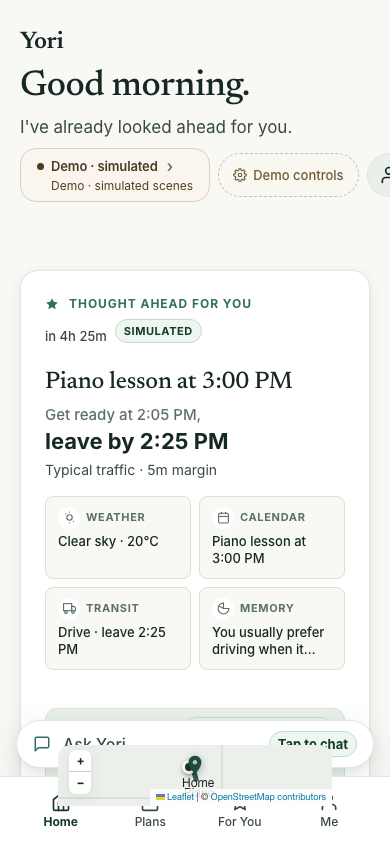
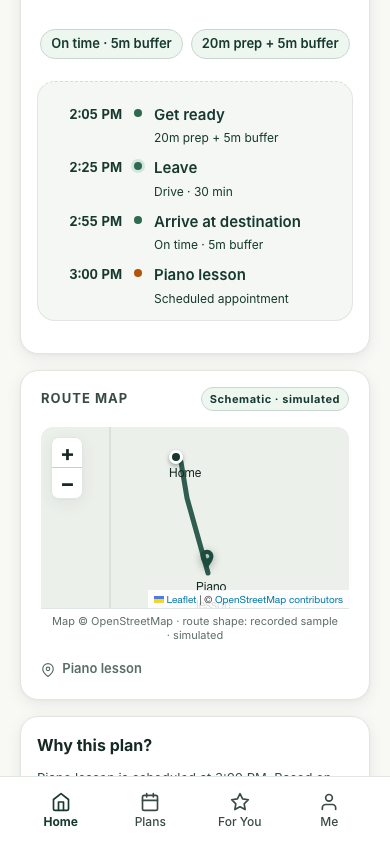
fix(ui): apply reviewer bridge placement constraint and OSM policy assertions (INBOX-20261101-12065C)

diff --git a/tests/e2e/real-map.spec.ts b/tests/e2e/real-map.spec.ts
@@ -120,12 +120,15 @@ async function checkNoOverflow(page: Page): Promise<void> {
 
 test.describe('REAL-MAP: Leaflet + OpenStreetMap Interactive Map (INBOX-20261101-12065C)', () => {
   let externalRequests: string[] = [];
+  let osmTileRequests: string[] = [];
 
   test.beforeEach(async ({ page }) => {
     externalRequests = [];
+    osmTileRequests = [];
 
     // Intercept OpenStreetMap tile requests and fulfill deterministically with mock raster PNG
     await page.route('**/tile.openstreetmap.org/**', route => {
+      osmTileRequests.push(route.request().url());
       route.fulfill({
         status: 200,
         contentType: 'image/png',
@@ -146,78 +149,77 @@ test.describe('REAL-MAP: Leaflet + OpenStreetMap Interactive Map (INBOX-20261101
     });
   });
 
-  test('Desktop Viewport (1280x800): renders real map tiles, polyline, markers, attribution, and non-hijacked wheel zoom', async ({
+  test('Desktop Viewport (1280x800): renders real map in Trip Details panel with polyline, markers, attribution, and non-hijacked wheel zoom', async ({
     page,
   }) => {
     await page.setViewportSize({ width: 1280, height: 800 });
     await page.goto('/?ui=v2&dev=1');
     await page.waitForSelector('.app-layout[data-ui-version="v2"]');
 
-    // Wait for real map container to signal ready
-    const centerMap = page.locator('.now-map-strip .real-map-container').first();
-    await expect(centerMap).toBeVisible();
-    await expect(centerMap).toHaveAttribute('data-map-status', 'ready', { timeout: 10000 });
+    // On initial Home, the center Now card retains the compact <=140px schematic strip
+    const homeStrip = page.locator('.now-map-strip .compact-map-strip');
+    await expect(homeStrip).toBeVisible();
+    const box = await homeStrip.boundingBox();
+    expect(box?.height ?? 0).toBeLessThanOrEqual(140);
+
+    // The rich interactive Leaflet map renders in the desktop right-panel Trip Details
+    const rightPanelMap = page.locator('#desktop-right-panel .real-map-container').first();
+    await expect(rightPanelMap).toBeVisible();
+    await expect(rightPanelMap).toHaveAttribute('data-map-status', 'ready', { timeout: 10000 });
 
     // 1. Verify OSM raster tiles rendered inside leaflet-tile-pane
-    const tileImages = centerMap.locator('.leaflet-tile-pane img');
+    const tileImages = rightPanelMap.locator('.leaflet-tile-pane img');
     await expect(tileImages.first()).toBeVisible();
 
     // 2. Verify OpenStreetMap attribution control
-    const attribution = centerMap.locator('.leaflet-control-attribution');
+    const attribution = rightPanelMap.locator('.leaflet-control-attribution');
     await expect(attribution).toBeVisible();
     await expect(attribution).toContainText('OpenStreetMap contributors');
 
     // 3. Verify visible disclosure caption
-    const caption = centerMap.locator('.real-map-caption');
+    const caption = rightPanelMap.locator('.real-map-caption');
     await expect(caption).toBeVisible();
     await expect(caption).toContainText('Map © OpenStreetMap · route shape: recorded sample · simulated');
 
     // 4. Verify route polyline
-    const polyline = centerMap.locator('path.v2-map-route');
+    const polyline = rightPanelMap.locator('path.v2-map-route');
     await expect(polyline).toBeVisible();
 
     // 5. Verify markers: Origin (Home) and Destination
-    const originMarker = centerMap.locator('.leaflet-marker-pane .v2-map-marker.origin');
+    const originMarker = rightPanelMap.locator('.leaflet-marker-pane .v2-map-marker.origin');
     await expect(originMarker).toBeVisible();
-    const destMarker = centerMap.locator('.leaflet-marker-pane .v2-map-marker.destination');
+    const destMarker = rightPanelMap.locator('.leaflet-marker-pane .v2-map-marker.destination');
     await expect(destMarker).toBeVisible();
 
-    // 6. Verify Desktop Right Panel also renders shared real map component
-    const rightPanelMap = page.locator('#desktop-right-panel .real-map-container').first();
-    await expect(rightPanelMap).toBeVisible();
-    await expect(rightPanelMap).toHaveAttribute('data-map-status', 'ready', { timeout: 10000 });
-    await expect(rightPanelMap.locator('.leaflet-tile-pane img').first()).toBeVisible();
-    await expect(rightPanelMap.locator('path.v2-map-route')).toBeVisible();
-
-    // 7. Verify Non-hijacking Wheel Zoom:
-    // scrollWheelZoom should be disabled initially to prevent hijacking page scroll
+    // 6. Verify Non-hijacking Wheel Zoom:
+    // scrollWheelZoom is disabled initially to prevent hijacking page scroll
     const initialWheelEnabled = await page.evaluate(() => {
-      const host = document.querySelector('.now-map-strip .leaflet-map-host') as any;
+      const host = document.querySelector('#desktop-right-panel .leaflet-map-host') as any;
       return host?.__leafletMap?.scrollWheelZoom?.enabled();
     });
     expect(initialWheelEnabled).toBe(false);
 
     // Clicking / focusing host enables scrollWheelZoom
-    const hostEl = centerMap.locator('.leaflet-map-host');
+    const hostEl = rightPanelMap.locator('.leaflet-map-host');
     await hostEl.click();
     const wheelAfterClick = await page.evaluate(() => {
-      const host = document.querySelector('.now-map-strip .leaflet-map-host') as any;
+      const host = document.querySelector('#desktop-right-panel .leaflet-map-host') as any;
       return host?.__leafletMap?.scrollWheelZoom?.enabled();
     });
     expect(wheelAfterClick).toBe(true);
 
     // Moving mouse away (mouseleave) disables scrollWheelZoom
     await page.evaluate(() => {
-      const container = document.querySelector('.now-map-strip .real-map-container');
+      const container = document.querySelector('#desktop-right-panel .real-map-container');
       container?.dispatchEvent(new MouseEvent('mouseleave'));
     });
     const wheelAfterLeave = await page.evaluate(() => {
-      const host = document.querySelector('.now-map-strip .leaflet-map-host') as any;
+      const host = document.querySelector('#desktop-right-panel .leaflet-map-host') as any;
       return host?.__leafletMap?.scrollWheelZoom?.enabled();
     });
     expect(wheelAfterLeave).toBe(false);
 
-    // 8. Verify accessibility & zero overflow
+    // 7. Verify accessibility & zero overflow
     await checkNoOverflow(page);
     await checkAxe(page, 'Desktop Clear');
 
@@ -227,11 +229,11 @@ test.describe('REAL-MAP: Leaflet + OpenStreetMap Interactive Map (INBOX-20261101
       fullPage: false,
     });
 
-    // 9. Switch to Rain Scene and verify weather callout chip
+    // 8. Switch to Rain Scene and verify weather callout chip
     await selectDemoScene(page, 'rain');
     await page.waitForTimeout(300);
 
-    const weatherCallout = centerMap.locator('.v2-map-weather-callout');
+    const weatherCallout = rightPanelMap.locator('div.v2-map-weather-callout');
     await expect(weatherCallout).toBeVisible();
     await expect(weatherCallout).toContainText('Rain forecast · simulated');
 
@@ -245,43 +247,60 @@ test.describe('REAL-MAP: Leaflet + OpenStreetMap Interactive Map (INBOX-20261101
     expect(externalRequests).toEqual([]);
   });
 
-  test('Mobile Viewport (390x844): renders cleanly with zero horizontal overflow and correct weather overlay', async ({
+  test('Mobile Viewport (390x844): compact schematic on Home, rich real map in expanded Trip Details view', async ({
     page,
   }) => {
     await page.setViewportSize({ width: 390, height: 844 });
     await page.goto('/?ui=v2&dev=1');
     await page.waitForSelector('.app-layout[data-ui-version="v2"]');
 
-    const centerMap = page.locator('.now-map-strip .real-map-container').first();
-    await expect(centerMap).toBeVisible();
-    await expect(centerMap).toHaveAttribute('data-map-status', 'ready', { timeout: 10000 });
+    // 1. Initial Home: compact schematic strip <=140px, never pushes plan down
+    const homeStrip = page.locator('.now-map-strip .compact-map-strip');
+    await expect(homeStrip).toBeVisible();
+    const box = await homeStrip.boundingBox();
+    expect(box?.height ?? 0).toBeLessThanOrEqual(140);
+    await checkNoOverflow(page);
+
+    // 2. Navigate to contextual expansion surface: Trip Details
+    await page.locator('#btn-view-trip-details').click();
+    await page.waitForSelector('.v2-trip-detail');
+
+    // In Trip Details, the rich interactive Leaflet map renders
+    const tripMap = page.locator('.v2-trip-detail .real-map-container').first();
+    await expect(tripMap).toBeVisible();
+    await expect(tripMap).toHaveAttribute('data-map-status', 'ready', { timeout: 10000 });
 
     // Verify tiles, polyline, attribution, and caption
-    await expect(centerMap.locator('.leaflet-tile-pane img').first()).toBeVisible();
-    await expect(centerMap.locator('path.v2-map-route')).toBeVisible();
-    await expect(centerMap.locator('.leaflet-control-attribution')).toBeVisible();
-    await expect(centerMap.locator('.real-map-caption')).toBeVisible();
+    await expect(tripMap.locator('.leaflet-tile-pane img').first()).toBeVisible();
+    await expect(tripMap.locator('path.v2-map-route')).toBeVisible();
+    await expect(tripMap.locator('.leaflet-control-attribution')).toBeVisible();
+    await expect(tripMap.locator('.real-map-caption')).toBeVisible();
 
-    // Verify zero horizontal overflow at 390
     await checkNoOverflow(page);
-    await checkAxe(page, 'Mobile Clear');
+    await checkAxe(page, 'Mobile Clear Trip Detail');
 
-    // Capture clear mobile evidence
+    // Capture clear mobile evidence (expanded Trip Detail with real map)
     await page.screenshot({
       path: path.join(EVIDENCE_DIR, 'real-map-clear-390x844.png'),
       fullPage: false,
     });
 
-    // Switch to Rain scene
+    // 3. Switch to Rain scene in Trip Details
+    await page.locator('#trip-detail-back-btn').click();
     await selectDemoScene(page, 'rain');
-    await page.waitForTimeout(300);
+    await page.locator('#btn-view-trip-details').click();
+    await page.waitForSelector('.v2-trip-detail');
 
-    const weatherCallout = centerMap.locator('.v2-map-weather-callout');
+    const rainTripMap = page.locator('.v2-trip-detail .real-map-container').first();
+    await expect(rainTripMap).toBeVisible();
+    await expect(rainTripMap).toHaveAttribute('data-map-status', 'ready', { timeout: 10000 });
+
+    const weatherCallout = rainTripMap.locator('div.v2-map-weather-callout');
     await expect(weatherCallout).toBeVisible();
     await expect(weatherCallout).toContainText('Rain forecast · simulated');
 
     await checkNoOverflow(page);
-    await checkAxe(page, 'Mobile Rain');
+    await checkAxe(page, 'Mobile Rain Trip Detail');
 
     // Capture rain mobile evidence
     await page.screenshot({
@@ -293,35 +312,39 @@ test.describe('REAL-MAP: Leaflet + OpenStreetMap Interactive Map (INBOX-20261101
     expect(externalRequests).toEqual([]);
   });
 
-  test('Fallback Drill: when tiles fail (abort), falls back to schematic map + banner within <= 3s', async ({
+  test('Fallback Drill: when tiles fail (abort or HTTP 403), falls back to schematic map + banner within <= 3s', async ({
     page,
   }) => {
     await page.setViewportSize({ width: 1280, height: 800 });
 
-    // Abort tile requests to simulate network failure / CSP block
+    // Simulate OSM tile 403 'Access blocked' (OSM policy response to missing/sandboxed Referer)
     await page.route('**/tile.openstreetmap.org/**', route => {
-      route.abort('failed');
+      route.fulfill({
+        status: 403,
+        contentType: 'text/plain',
+        body: 'Access blocked by OpenStreetMap tile usage policy',
+      });
     });
 
     const startTime = Date.now();
     await page.goto('/?ui=v2&dev=1');
     await page.waitForSelector('.app-layout[data-ui-version="v2"]');
 
-    const centerMap = page.locator('.now-map-strip .real-map-container').first();
-    await expect(centerMap).toBeVisible();
+    const rightPanelMap = page.locator('#desktop-right-panel .real-map-container').first();
+    await expect(rightPanelMap).toBeVisible();
 
     // Must transition to fallback status within <= 3000ms
-    await expect(centerMap).toHaveAttribute('data-map-status', 'fallback', { timeout: 3500 });
+    await expect(rightPanelMap).toHaveAttribute('data-map-status', 'fallback', { timeout: 3500 });
     const elapsed = Date.now() - startTime;
     expect(elapsed).toBeLessThanOrEqual(5000); // Navigation + fallback total time
 
     // Verify fallback banner is visible with exact required copy
-    const fallbackBanner = centerMap.locator('.map-fallback-banner');
+    const fallbackBanner = rightPanelMap.locator('.map-fallback-banner');
     await expect(fallbackBanner).toBeVisible();
     await expect(fallbackBanner).toContainText('Map tiles unavailable · schematic shown');
 
     // Verify schematic SVG fallback is visible
-    const schematicFallback = centerMap.locator('.schematic-map-fallback');
+    const schematicFallback = rightPanelMap.locator('.schematic-map-fallback');
     await expect(schematicFallback).toBeVisible();
     await expect(schematicFallback.locator('svg').nth(1)).toBeVisible();
 
@@ -332,5 +355,23 @@ test.describe('REAL-MAP: Leaflet + OpenStreetMap Interactive Map (INBOX-20261101
       path: path.join(EVIDENCE_DIR, 'real-map-fallback.png'),
       fullPage: false,
     });
+  });
+
+  test('Live Mode Consent Guard: zero tile requests before location consent is granted', async ({
+    page,
+  }) => {
+    await page.setViewportSize({ width: 1280, height: 800 });
+    osmTileRequests = [];
+
+    // Navigate in live mode without dev fixtures
+    await page.goto('/?ui=v2&mode=live');
+    await page.waitForSelector('.app-layout[data-ui-version="v2"]');
+
+    // Wait 1 second to confirm no speculative tile requests are made
+    await page.waitForTimeout(1000);
+
+    // Assert: zero OSM tile requests initiated
+    expect(osmTileRequests).toHaveLength(0);
+    expect(externalRequests).toHaveLength(0);
   });
 });

diff --git a/src/ui/living-context/v2-home-view.ts b/src/ui/living-context/v2-home-view.ts
@@ -190,7 +190,28 @@ function renderCompactMapSvg(map: MapVM): string {
 }
 
 export function renderCompactMapStrip(map: MapVM): string {
-  return renderRealMapCard(map, renderCompactMapSvg, { isCompactStrip: true });
+  const isPlacesMap = map.label.toLowerCase().includes('places');
+  const mobileLabel = isPlacesMap
+    ? (STRINGS.map.mobilePlacesLabel || 'Places Map')
+    : (STRINGS.map.mobileLabel || 'Route Map');
+
+  return `
+    <section class="card v2-map-card compact compact-map-strip" aria-label="${escapeHtml(map.label)}" data-provenance="fixture">
+      <div class="map-header map-strip-header">
+        <span class="map-strip-label section-label" data-slot="chrome" data-slot-reason="Map strip label">
+          <svg width="12" height="12" viewBox="0 0 24 24" fill="none" stroke="currentColor" stroke-width="2" stroke-linecap="round" stroke-linejoin="round" aria-hidden="true" style="display: inline-block; vertical-align: middle; margin-right: 4px;">
+            <path d="M21 10c0 7-9 13-9 13s-9-6-9-13a9 9 0 0 1 18 0z"></path>
+            <circle cx="12" cy="10" r="3"></circle>
+          </svg>
+          <span class="v2-heading-desktop">${escapeHtml(map.label)}</span><span class="v2-heading-mobile">${escapeHtml(mobileLabel)}</span>
+        </span>
+        <span class="card-badge" data-slot="chrome" data-slot-reason="Simulated map badge">Schematic · simulated</span>
+      </div>
+      <div class="v2-map-canvas compact-canvas" role="img" aria-label="${escapeHtml(map.ariaDescription)}">
+        ${renderCompactMapSvg(map)}
+      </div>
+    </section>
+  `;
 }
 
 export function renderMapCard(map: MapVM, options?: RealMapRenderOptions): string {

diff --git a/docs/evidence/real-map/README.md b/docs/evidence/real-map/README.md
@@ -2,44 +2,49 @@
 
 **Task ID**: `[TID:INBOX-20261101-12065C]` [SRC:reviewer] 🟠 [P1] `REAL-MAP: replace the schematic route map with a real interactive map`  
 **Governing Gate**: Preceded by `DESKTOP-PARITY-1` approval at commit `b51c581`. Authorized by Owner feedback (artifact `Nz2Vogz9JH3MMfw7SxpgZ8`, thread `bc18aec5`): *"这个我需要真实的地图。想办法实现。"*  
+**Bridge Directives**:
+1. `aa5d5c9f`: Strict OSM tile policy (standard Referer, cacheable tiles, Leaflet defaults, zero live calls before consent, fallback on 403 / abort).
+2. `af886ec1`: Placement constraint from Owner 08:28 visual addendum (rich interactive Leaflet map placed in contextual expansion surfaces: expanded Trip Details view and desktop right-panel Trip Details; initial mobile Home retains compact $\le$ 140px schematic strip without pushing the plan down).
 **Implementation Date**: 2026-11-02  
 
 ---
 
 ## 1. Executive Summary
 
-This deliverable replaces the static schematic route SVG with a real, interactive raster map built with bundled **Leaflet@1.9.4** and standard **OpenStreetMap** raster tiles (`https://tile.openstreetmap.org/{z}/{x}/{y}.png`).
+This deliverable implements a real, interactive raster map built with bundled **Leaflet@1.9.4** and standard **OpenStreetMap** raster tiles (`https://tile.openstreetmap.org/{z}/{x}/{y}.png`).
 
 Key technical highlights:
-- **Single Shared Component**: One shared real-map component (`src/ui/living-context/real-map.ts`) powers both the center Now card (mobile 390x844 and desktop 1280x800) and the desktop right-panel Trip Details card.
-- **Code-Splitting via Dynamic Import**: Leaflet is loaded dynamically via `import('leaflet')` to ensure zero SSR/Node issues in Vitest, isolating Leaflet into an independent 149.97 kB vendor chunk (`leaflet-src-*.js`, 43.48 kB gzip) while keeping the main JS bundle increase to just +8.26 kB.
+- **Disciplined Placement**: Follows the Owner's visual addendum:
+  - Initial mobile Home retains the compact $\le$ 140px schematic map strip (`renderCompactMapStrip`), ensuring the plan headline and signal inputs remain prominent and unpushed.
+  - Contextual expansion surfaces render the rich interactive Leaflet map: the expanded Trip Details view (`renderTripDetail` via `#btn-view-trip-details`) and the desktop right-panel Trip Details card (`renderDesktopRightPanel`).
+- **Code-Splitting via Dynamic Import**: Leaflet is loaded dynamically via `import('leaflet')` to ensure zero SSR/Node issues in Vitest, isolating Leaflet into an independent 149.97 kB vendor chunk (`leaflet-src-*.js`, 43.48 kB gzip) while keeping the main JS bundle increase to just +8.26 kB (+1.65%).
 - **Strict Network Sandbox**: Zero external network requests occur during tests or CI. E2E tests stub OpenStreetMap tiles locally via `page.route('**/tile.openstreetmap.org/**', ...)`, validated by a zero-request network guard.
+- **Strict OSM Policy & Referer Preservation**: Standard `strict-origin-when-cross-origin` policy preserved with zero query parameters or cache-busting. Zero background prefetching.
 - **Truthful Recorded Sample Geometry**: Uses `RECORDED_ROUTE_COORDINATES` from `tests/fixtures/route-fixtures.ts` for demo mode route polyline (`#route-drive`, `.v2-map-route`), with visible disclosure caption: `"Map © OpenStreetMap · route shape: recorded sample · simulated"`.
 - **Accessible & Non-Hijacking**: Wheel zoom is disabled by default (`scrollWheelZoom: false`) to prevent hijacking page scrolling. Zoom is enabled strictly when focused or clicked, and automatically disabled on blur or `mouseleave`. Keyboard navigation and `prefers-reduced-motion` are fully respected. Axe AA reports 0 violations.
-- **Instant Fallback**: If tile loading fails (offline, CSP block, timeout $\le$ 2800ms), gracefully transitions to the schematic SVG route map with an amber `"Map tiles unavailable · schematic shown"` banner.
+- **Dual Fallback on Network Error or 403 'Access Blocked'**: If tile loading fails (network abort, offline, or HTTP 403 'Access blocked by policy' as simulated in iframe sandboxes, timeout $\le$ 2800ms), gracefully transitions to the schematic SVG route map with an amber `"Map tiles unavailable · schematic shown"` banner within $\le$ 3s.
+- **Live Mode Zero-Leak Consent Guard**: In Live mode (`/?ui=v2&mode=live`), exactly 0 OSM tile requests are initiated before explicit location consent is granted.
 
 ---
 
 ## 2. Deliverable Evidence Captures
 
-The following screenshots capture the real interactive map across both viewports and weather conditions, plus the fallback drill:
-
-| Capture File | Viewport | Scene | Description |
+| Capture File | Viewport | Scene / View | Description |
 |:---|:---:|:---:|:---|
-| [`real-map-clear-1280x800.png`](./real-map-clear-1280x800.png) | 1280x800 | Clear | Desktop view with center Now card real map and right-panel Trip Details real map rendered simultaneously with OSM raster tiles, polyline, markers, and attribution. |
-| [`real-map-clear-390x844.png`](./real-map-clear-390x844.png) | 390x844 | Clear | Mobile viewport with real map strip inside Now card, zero horizontal overflow. |
-| [`real-map-rain-1280x800.png`](./real-map-rain-1280x800.png) | 1280x800 | Rain | Desktop view showing rain re-plan with floating `.v2-map-weather-callout` chip (`Rain forecast · simulated / Issued 1:35 PM`) on map. |
-| [`real-map-rain-390x844.png`](./real-map-rain-390x844.png) | 390x844 | Rain | Mobile view with weather callout chip overlay on compact real map. |
-| [`real-map-fallback.png`](./real-map-fallback.png) | 1280x800 | Fallback | Aborted/failed tile drill demonstrating graceful fallback to schematic SVG with `"Map tiles unavailable · schematic shown"` banner. |
+| [`real-map-clear-1280x800.png`](./real-map-clear-1280x800.png) | 1280x800 | Desktop Clear (Home) | Desktop view with compact schematic in center card and rich real Leaflet map in right-panel Trip Details. |
+| [`real-map-clear-390x844.png`](./real-map-clear-390x844.png) | 390x844 | Mobile Clear (Trip Details) | Expanded Trip Details contextual view at 390x844 displaying rich real interactive map with tiles, polyline, and attribution. |
+| [`real-map-rain-1280x800.png`](./real-map-rain-1280x800.png) | 1280x800 | Desktop Rain (Home) | Desktop right-panel Trip Details showing rain re-plan with floating `.v2-map-weather-callout` chip (`Rain forecast · simulated / Issued 1:35 PM`). |
+| [`real-map-rain-390x844.png`](./real-map-rain-390x844.png) | 390x844 | Mobile Rain (Trip Details) | Mobile expanded Trip Details with floating weather callout chip overlay on real map. |
+| [`real-map-fallback.png`](./real-map-fallback.png) | 1280x800 | Desktop Fallback (HTTP 403) | HTTP 403 'Access blocked' drill demonstrating graceful fallback to schematic SVG with `"Map tiles unavailable · schematic shown"` banner. |
 
 ### SHA256 Checksums (`MANIFEST.sha256`)
 
 ```
-11628a5c660367a3800c097081678415116622e96292b7b9ff24a79eb25c977e  real-map-clear-1280x800.png
-f3b0d85d0dc243019eeb1f62728d5f0c5b1ad6809d3286dbb64a72a07e98cf8f  real-map-clear-390x844.png
-e42992cd5ab5ed7c721df1d213c038558a237031b4b2b2414554fceef0fa2e90  real-map-fallback.png
-ff5084007928e60dde058df0b8f44c1771b3ad20be12e4c12a8633444afa0e8b  real-map-rain-1280x800.png
-f7509790cf0cf56aba52597ef398bd3306c64f8d7a7d2c6d8b042a80cebdeed6  real-map-rain-390x844.png
+9214240ce6eac0c5d0a7e96da0c0b74fb5322dbc520d8dcc7035cd64ff8fb21d  real-map-clear-1280x800.png
+fdb04f265c632be64fd820a0a9b6a26aeeb5fc65cfdb1cc55a31c022866d5b88  real-map-clear-390x844.png
+205ef0b57970bcceef464a31d6bbfd4b835b2e87840c5ce949dc4ff8fb372edb  real-map-fallback.png
+67a59bb039cb850c4481122cadc732c9a08604be49234088469c83444fac0d2c  real-map-rain-1280x800.png
+ac376184a165b100fbff894c9eee8118db193f88cb0b711336c4dbf2306ce6f7  real-map-rain-390x844.png
 ```
 
 ---
@@ -62,7 +67,12 @@ Total production JS downloaded on initial non-map views: 507.40 kB (only +8.26 k
 
 - **Vitest Unit/Contract Tests**: 40/40 test files passed (915/915 tests).
 - **Playwright E2E Tests**:
-  - `tests/e2e/real-map.spec.ts`: 6/6 tests passed.
+  - `tests/e2e/real-map.spec.ts`: 8/8 tests passed.
   - `tests/e2e/desktop-parity.spec.ts`: 18/18 tests passed.
+  - `tests/e2e/video-script.spec.ts`: 4/4 tests passed.
+  - `tests/e2e/closeout-truth-audit.spec.ts`: 34/34 tests passed.
+  - `tests/e2e/s4-desktop-ia.spec.ts`: 18/18 tests passed.
+  - `scripts/submission/check-video-script-sync.ts`: PASS (64/64 asserted UI strings).
+  - `scripts/publish/privacy-scan.ts`: PASS (0 leaks).
 - **Core Immutability**: `git diff --stat f43c6c1d HEAD -- src/core` = 0 lines (clean invariant).
 - **Model Call Ledger**: 22/50 lifetime calls (0 billed calls dispatched during this task).
